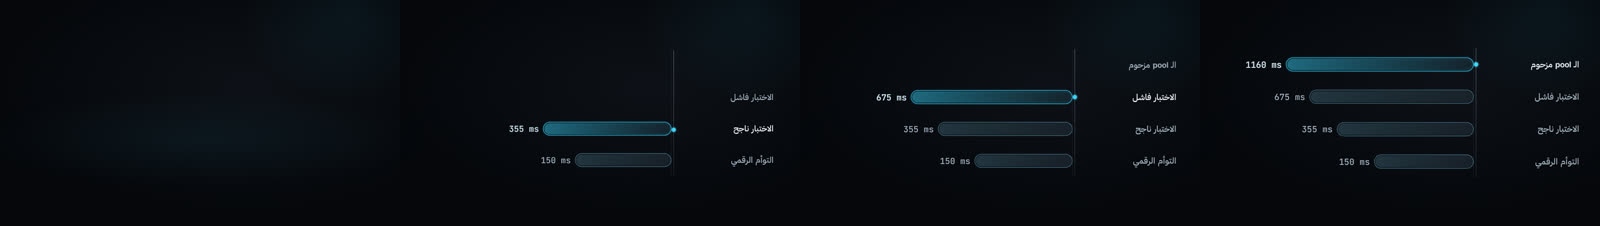
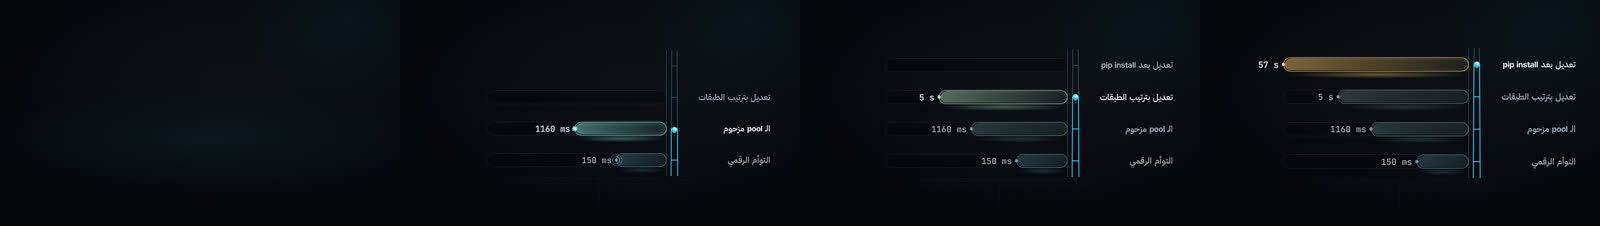
P7 dom-a: LatencyLadder finished (log-scale ladder, climber, rim-lit bars; fixed NaN rung seconds and the tile-seam back glow; snap PASS det 0 pending-critic; perf lite 0.085 / standard 0.086 / hero 0.086 box s/frame; Arabic QA pass)
Claude-Session: https://claude.ai/code/session_01VrU9wxU8GmuhdhWAAHnnQ8

diff --git a/studio/src/components/LatencyLadder/LatencyLadder.tsx b/studio/src/components/LatencyLadder/LatencyLadder.tsx
@@ -37,7 +37,7 @@ export const LatencyLadderView: React.FC<DcProps<Props>> = ({props, ctx}) => {
   const n = props.rungs.length;
   const box = ctx.box;
   const t = ctx.frame;
-  const secs = props.rungs.map(seconds);
+  const secs = props.rungs.map((r) => seconds(r.latency));
   const lo = Math.min(...secs);
   const hi = Math.max(...secs);
   const rowH = Math.min(150, box.h / n);
@@ -78,8 +78,7 @@ export const LatencyLadderView: React.FC<DcProps<Props>> = ({props, ctx}) => {
   const floorY = top + H + 6;
   return (
     <div style={{position: 'absolute', inset: 0, ...layerStyle(ctx, rtl)}}>
-      {/* back glow behind the current top rung, floor grid under the ladder */}
-      {curTop >= 0 ? <div style={{position: 'absolute', left: barX1 - trackW * 0.85, top: topY - rowH * 1.2, width: trackW * 0.95, height: rowH * 2.4, borderRadius: '50%', background: `radial-gradient(ellipse, ${topTone}${hex(0.16 * glowK)} 0%, ${topTone}${hex(0.05)} 50%, transparent 72%)`}} /> : null}
+      {/* floor grid under the ladder (no full-height back glow: large translucent gradients rasterise differently per page at tile seams, see kit.Floor; the top bar's emitter, rim and floor pool carry the light) */}
       {box.y + box.h - floorY > 70 ? <Floor x={box.x} y={floorY} w={box.w} h={Math.min(box.y + box.h - floorY, 240)} opacity={0.5} /> : null}
       {/* decade ticks and the decade grid: equal steps = 10x each */}
       <svg width={1} height={1} style={{position: 'absolute', left: 0, top: 0, overflow: 'visible'}}>

diff --git a/studio/src/demos/dom-a.tsx b/studio/src/demos/dom-a.tsx
@@ -85,7 +85,7 @@ const latencyLadder: DemoDef = {
             {label: 'التوأم الرقمي', latency: {value: 150, ref: 'd:6.6:6', unit: 'ms'}},
             {label: 'الـpool مزحوم', latency: {value: 1160, ref: 'd:6.6:4', unit: 'ms'}},
             {label: 'تعديل بترتيب الطبقات', latency: {value: 5, ref: 'd:6.7:1', unit: 's'}},
-            {label: 'تعديل بعد pip install', latency: {value: 57, ref: 'd:6.7:2', unit: 's'}},
+            {label: 'تعديل بعد ⟦pip install⟧', latency: {value: 57, ref: 'd:6.7:2', unit: 's'}},
           ],
         },
         at: A('LatencyLadder', 1),

diff --git a/docs/p7/catalog_status/dom-a.md b/docs/p7/catalog_status/dom-a.md
@@ -4,3 +4,4 @@
 |---|---|---|
 | TripleGate | implemented | Three rim-lit portal arches in RTL order (gate 0 on the right), whole-phrase Arabic labels in a text-safe mask. `ignite` lights the gates in turn (light shaft, floor pool, back glow), `pass` carries the payload capsule (bidi-isolated label, comet trail) through and each gate turns ok behind it, `reject` fails one gate (crit bar and X, shake, recoil). Seeded sparks only. Demo = "get rows, make trustworthy, answer" (s:S1:ar-natural:0560; 04 section 6 "Data work = 3 moves"), no numbers. Baselines approved-critic (8/10, round 1). Perf box s/frame at 3 slots: lite 0.130, standard 0.155, hero 0.162 (budgets 0.201 / 0.201 / 1.038); 2D, hero equals standard. Arabic QA pass. Open non-blocking critic notes: sparks and comet trail small at 1080p, reject path has no still. |
 | LegendOrbs | implemented | 2-8 rim-lit emissive orbs (token colour each) on a shallow orbit ellipse seen in perspective, RTL order (item 0 on the right), whole-phrase Arabic labels in text-safe FitText on one baseline; each orb has a back glow, floor light pool, orbit ellipse and a depth-ordered comet-tailed satellite (seeded phase). `focus {index}` swells the named orb 1.25x with an impact flash and two pulse rings, turns its label ink with a tone bar, dims the others to 45 %. DOM + SVG only, so lite = standard = hero code. Demo = "six lights, each with one meaning" (04 section 1.1 colour semantics and section 6 Visual language), no numbers. Baselines approved-critic (8/10, round 1). Perf box s/frame at 3 slots: lite 0.153, standard 0.182, hero 0.186 (budgets 0.201 / 0.201 / 1.038). Arabic QA pass. Snap re-run was refused by the RAM guard in this session (queue holds 9 GB), source unchanged since the approved commit. Open non-blocking critic notes: no still at focus+4f (rings), satellites small at 960 px, bottom labels near the safe margin, unfocused orbit ellipses faint. |
+| LatencyLadder | implemented | A real ladder in light perspective (tapering rails on the right, one peg per rung, rung 0 at the bottom). Each rung has a trough holding an acrylic bar on ONE log scale (every 10x is one equal decade step, drawn as ticks; mixed ns/us/ms/s/min share it), whole-phrase Arabic label in text-safe FitText, value + unit in a mono LTR isolate at the bar tip, and slow rungs shading signal to warn (amber). `climb {to}` sends a comet-tailed climber orb up the rails rung by rung; each reached bar grows (RV1 onset), flashes with two pulse rings, lights its peg, and the previous top settles dimmer. The bible's "10x zoom step" is the log scale itself, so no number ever moves. DOM + SVG only, so lite = standard = hero code. Demo = four real waits of the labs (d:6.6:6 150 ms, d:6.6:4 1 160 ms, d:6.7:1 5 s, d:6.7:2 57 s; 04 section 6 "What a computer does"). Baselines pending-critic (snap PASS, determinism 0 px, 0 QA findings). Perf box s/frame at 3 slots: lite 0.085, standard 0.086, hero 0.086 (budgets 0.201 / 0.201 / 1.038). Arabic QA pass. Fixed in this pass: rung seconds were NaN (map passed the rung, not its latency), so no bar drew; a full-height radial back glow made the p50 still non-deterministic at tile seams (1 031 px), so the light comes from the tip emitter, rim and floor pool. Open notes: the demo ladder mixes lab waits, not the cache/RAM/disk/network example of the catalog line; no still of a ladder with more than 4 rungs. |
